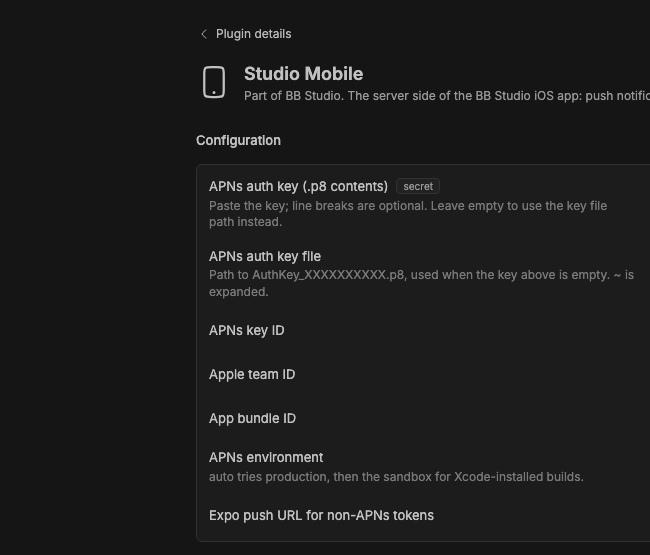
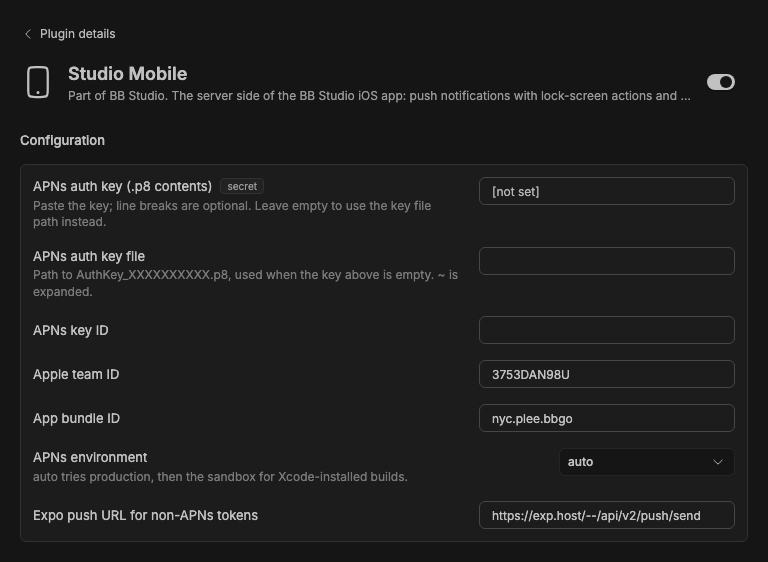
Mobile: capture the whole settings form and describe its defaults

diff --git a/packages/bb-studio-mobile/README.md b/packages/bb-studio-mobile/README.md
@@ -71,6 +71,8 @@ bb plugin install .
 
 ![Studio Mobile settings in the running BB app](assets/staged-preview.png)
 
-The plugin's settings page in a staged BB (`node scripts/staged-bb.mjs start`) shows the APNs key, key ID, team,
-bundle ID and environment fields and the Expo push URL. No private APNs key or
-device token is staged for the capture.
+The plugin's settings page in a staged BB (`node scripts/staged-bb.mjs start`) shows the APNs key, key file, key ID,
+team, bundle ID and environment fields and the Expo push URL, with the
+plugin's defaults: team `3753DAN98U`, bundle `nyc.plee.bbgo`, environment
+`auto` and Expo's push URL. The APNs key reads `[not set]`; no private APNs
+key or device token is staged for the capture.
